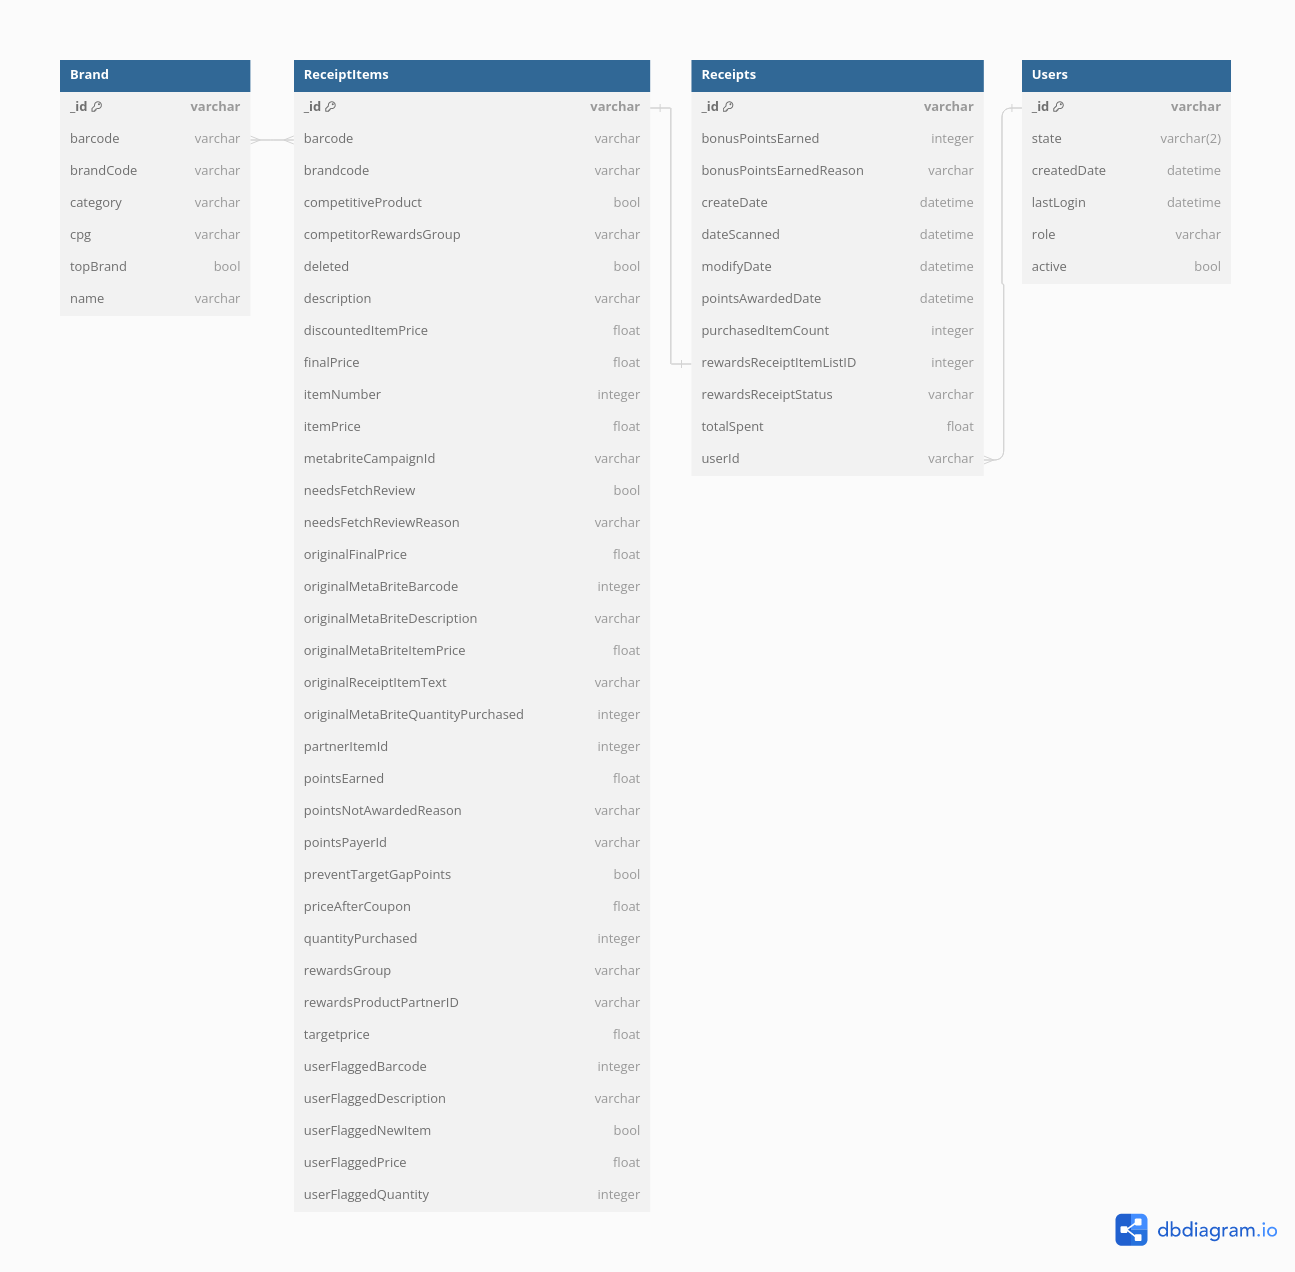
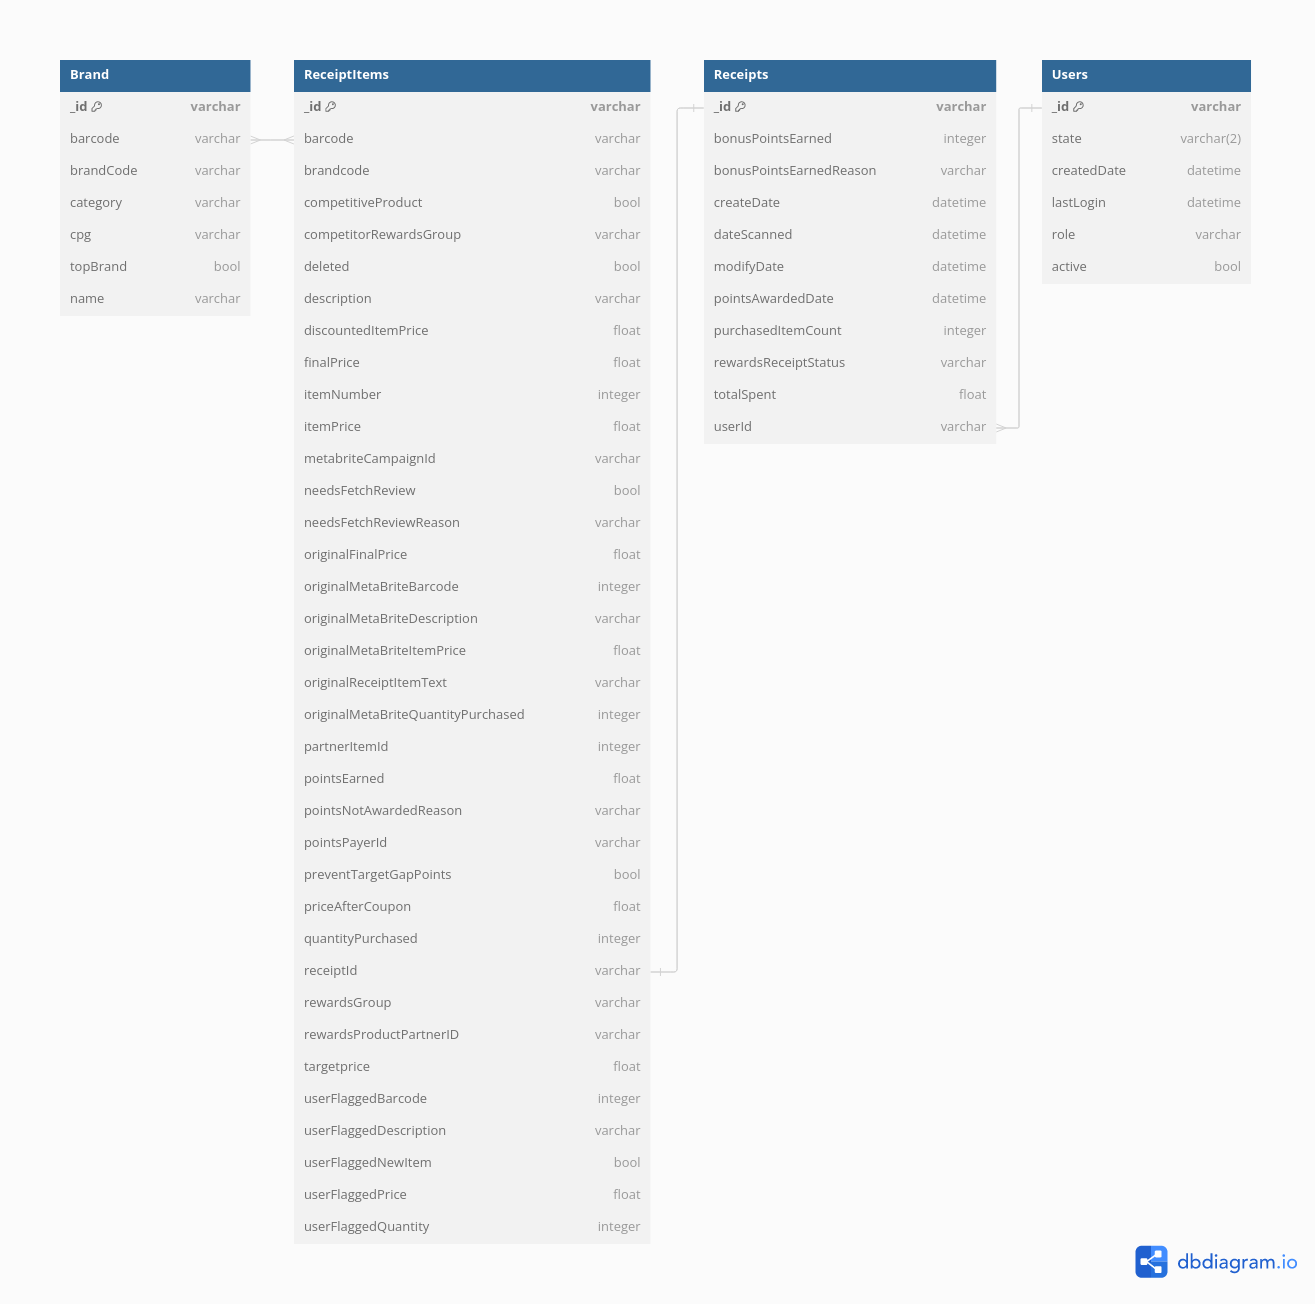
fix modelling errors

diff --git a/task2/queries.md b/task2/queries.md
@@ -65,7 +65,7 @@ FROM Brand b
 JOIN ReceiptItems i
   on b.barcode = i.barcode
 JOIN Receipts r
-  on i._id =  r.rewardsReceiptItemListID
+  on i.receiptId =  r._id
 JOIN Users u
   on r.userId = i._id
 WHERE i.createdDate >= CURDATE() - INTERVAL (DAYOFMONTH(CURDATE() -1) DAY - INTERVAL 6 MONTH
